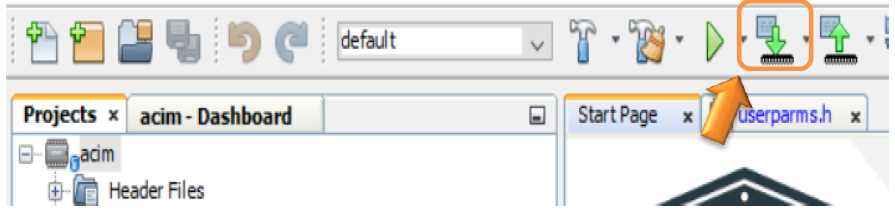
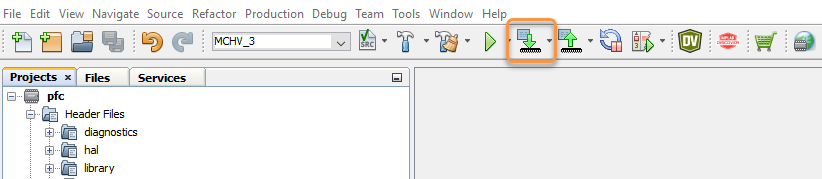
Readme file is updated. Images are updated for readme.

diff --git a/README.md b/README.md
@@ -1,25 +1,241 @@
 ![image](images/microchip.jpg) 
-
-## mchv3 dspic33ck64mc105 pfc
-
-Board Image if any.
-
-## Summary
+## Single Stage Boost Power Factor Correction Demonstration ReadMe for the dsPICDEM™ MCHV-2 Development Board or dsPICDEM™ MCHV-3 Development Board with the dsPIC33CK64MC105 External Op-Amp Motor Control PIM(MPLAB® X IDE)
 
 
-## Related Documentation
+## 1. INTRODUCTION
+This document describes the setup requirements for single stage boost power factor correction algorithm on the hardware platform dsPICDEM™ MCHV-2 Development Board or the dsPICDEM™ MCHV-3 Development Board in the External Op-Amp configuration with the dsPIC33CK64MC105 External Op-Amp Motor Control Plug-In Module (PIM).
+</br>
+
+## 2. SUGGESTED DEMONSTRATION REQUIREMENTS
+
+### 2.1 Motor Control Application Firmware Required for the Demonstration
+
+To clone or download this application firmware on GitHub, 
+- Navigate to the [main page of this repository](https://github.com/microchip-pic-avr-solutions/mchv3-dspic33ck64mc105-pfc) and 
+- On the tab **<> Code**, above the list of files in the right-hand corner, click Code, then from the menu, click **Download ZIP** or copy the repository URL to **clone.**
+> **Note:**</br>
+>In this document, hereinafter this firmware package is referred as **firmware.**
+### 2.2 Software Tools Used for Testing the firmware
+
+- MPLAB® X IDE **v6.00** 
+- DFP: **dsPIC33CK-MC_DFP v1.5.126**
+- MPLAB® XC16 Compiler **v2.00**
+- MPLAB® X IDE Plugin: **X2C-Scope v1.3.3** 
+> **Note:** </br>
+>The software used for testing the firmware prior to release is listed above. It is recommended to use the version listed above or later versions for building the firmware.
+### 2.3 Hardware Tools Required for the Demonstration
+To set up the demonstration, you may use one of the High-Voltage Motor Control Development Boards mentioned below:
+- dsPICDEM™ MCHV-2 Development Board,[DM330023-2](https://www.microchip.com/en-us/development-tool/dm330023-2)
+- dsPICDEM™ MCHV-3 Development Board,[DM330023-3](https://www.microchip.com/en-us/development-tool/dm330023-3)
+
+> **Note:** </br>
+> All items listed under the section Hardware Tools Required for the Demonstration are available at [microchip DIRECT](https://www.microchipdirect.com/)
+
+</br>
+
+## 3. HARDWARE SETUP
+This section describes hardware setup required for the demonstration.
+
+## Hadware Setup
+This section describes hardware setup required for the demonstration. 
+
+Refer dsPICDEM™ MCHV-2 Development Board User’s Guide or dsPICDEM™ MCHV-3 Development Board User’s Guide, for any clarification while setting up the hardware.
+
+1. Before making any connection, verify that the Development Board is not powered and it is fully discharged. This can be done by checking if Power on Status LED D13(Red) is off.
+
+2.  Open the top cover of the enclosure and set up the following jumpers (if they are not in specified positions):
+
+<p align="center">
+  <img src="images/jumpertable.PNG">
+</p>
+
+3.  Connect the wires from the DC load to terminals of connector, provided on the Development Board..</p>
+<p align="center">
+  <img src="images/motorconnection.PNG">
+</p>
+
+4.	Insert the ‘External Op Amp Configuration Matrix board’ into matrix board header J4. Ensure the matrix board is correctly oriented before proceeding.</p>
+<p align="center">
+  <img src="images/matrixboard.PNG">
+</p>
+
+> **Note:**</br>
+>Note: Rated current of the board in External op amp configuration is 16.5 A.
+</br>
+
+5. Insert the dsPIC33CK64MC105 External Op-Amp Motor Control PIM into the PIM Socket U11 provided on the Development Board. Make sure the PIM is correctly placed and oriented before proceeding.
 
 
-## Software Used 
+6. Close the top cover of the enclosure and secure it with screws.
+
+7. Power Cord Connection. Make sure the power cord is disconnected from the AC mains before connecting the female terminal of the power cable to the AC input connector J1 of the Development Board.
+<p align="center">
+  <img src="images/powercordconnection.PNG">
+</p>
+
+8. To program the device, a mini-USB connection is required between Host PC and the Development Board. Connect a mini-USB cable from your computer to the mini-USB connector “PROGRAM/DEBUG” of the Development Board. The development board features a Built-in isolated Programmer or Debugguer (Microchip Starter Kit).
+<p align="center">
+  <img src="images/miniusbconnector.PNG">
+</p>
+
+9. Power up the Development Board by connecting power cord to the mains. To verify the unit is powered, make sure LEDs D6, D13, D16 and D18 are ON.
+ 
+ </br>
+
+## 4. SOFTWARE SETUP AND RUN
+### 4.1 Setup: MPLAB X IDE and MPLAB XC16 Compiler
+Install **MPLAB X IDE** and **MPLAB XC16 Compiler** versions that support the device **dsPIC33CK64MC105** and **PKOBv4.** The MPLAB X IDE, MPLAB XC16 Compiler, and X2C-Scope plug-in used for testing the firmware are mentioned in the [Motor Control Application Firmware Required for the Demonstration](#21-motor-control-application-firmware-required-for-the-demonstration) section. 
+
+To get help on  
+
+- MPLAB X IDE installation, refer [link](https://microchipdeveloper.com/mplabx:installation)
+- MPLAB XC16 Compiler installation steps, refer [link](https://microchipdeveloper.com/xc16:installation)
+
+If MPLAB IDE v8 or earlier is already installed on your computer, then run the MPLAB driver switcher (Installed when MPLAB®X IDE is installed) to switch from MPLAB IDE v8 drivers to MPLAB X IDE drivers. If you have Windows 8 or 10, you must run the MPLAB driver switcher in **Administrator Mode**. To run the Device Driver Switcher GUI application as administrator, right-click on the executable (or desktop icon) and select **Run as Administrator**. For more details, refer to the MPLAB X IDE help topic **“Before You Begin: Install the USB Device Drivers (For Hardware Tools): USB Driver Installation for Windows Operating Systems.”**
+
+### 4.2 Setup: X2C-SCOPE
+X2C-Scope is an MPLAB X IDE plugin that allows developers to interact with an application while it runs. X2C-Scope enables you to read, write, and plot global variables (for motor control) in real-time. It communicates with the target using the UART. To use X2C-Scope, the plugin must be installed. To set up and use X2C-Scope, refer to the instructions provided on the [web page](https://x2cscope.github.io/docs/MPLABX_Plugin.html).
+
+## 5.  BASIC DEMONSTRATION
+### 5.1 Firmware Description
+The firmware version needed for the demonstration is mentioned in the section [Motor Control Application Firmware Required for the Demonstration](#21-motor-control-application-firmware-required-for-the-demonstration) section. This firmware is implemented to work on Microchip’s 16-bit Digital signal controller (dsPIC® DSC) **dsPIC33CK64MC105**. For more information, see the **dsPIC33CK64MC105 Family datasheet (DS70005399)**.
+
+> **Note:**</br>
+> The project may not build correctly in Windows OS if the Maximum path length of any source file in the project is more than 260 characters. In case the absolute path exceeds or nears the maximum length, do any (or both) of the following:
+> - Shorten the directory name containing the firmware used in this demonstration. If you renamed the directory, consider the new name while reading the instructions provided in the upcoming sections of the document.
+> - Place firmware in a location such that the total path length of each file included in the projects does not exceed the Maximum Path length specified. </br>
+> Refer to MPLAB X IDE help topic **“Path, File, and Folder Name Restrictions”** for details. 
+
+### 5.2 Basic Demonstration
+Follow the below instructions, step by step, to set up and run the pfc demo application:
+
+1. Start **MPLAB X IDE** and open the project **pfc.X (File > Open Project)** with device selection **dsPIC33CK64MC105.**  
+    <p align="left">
+       <img  src="images/idedeviceselection.png"></p>
+  
+
+2. Set the project **pfc.X** as the main project by right-clicking on the project name and selecting **Set as Main Project** as shown. The project **pfc.X** will then appear in **bold.**
+    <p align="left">
+     <img  src="images/ideprojectsetup.png"></p>
+ 
+
+	
+3. Open <code>**pfc_userparams.h** </code> (**pfc.X > Header Files**) in the project **pfc.X.**  
+     - Ensure that the macros <code>**ENABLE_PFC</code>, <code>PFC_POWER_CONTROL</code>** are defined in the header file<code> **pfc_userparams.h.**</code>
+          <p align="left"><img  src="images/configParam.png"></p>
+
+     - Ensure that the parameters values are set for dsPICDEM™ MCHV-3 Development Board.
+
+4. Right-click on the project **pfc.X** and select **Properties** to open its **Project Properties** Dialog. Click the **Conf:[default]** category to reveal the general project configuration information. The development tools used for testing the firmware are listed in section [2.2 Software Tools Used for Testing the firmware.](#22-software-tools-used-for-testing-the-firmware).
+
+     In the **Conf:[default]** category window: 
+     - Ensure the selected **Device** is **dsPIC33CK64MC105.**
+     - Select the **Connected Hardware Tool** to be used for programming and debugging. 
+     - Select the specific Device Family Pack (DFP) from the available list of **Packs.** In this case, **dsPIC33CK-MC_DFP 1.5.126** is selected. 
+     - Select the specific **Compiler Toolchain** from the available list of **XC16** compilers. 
+     In this case, **XC16(v2.00)** is selected.
+     - After selecting Hardware Tool and Compiler Toolchain, Device Pack, click the button **Apply**
+
+     Please ensure that the selected MPLAB® XC16 Compiler and Device Pack support the device configured in the firmware
+
+     <p align="left">
+     <img  src="images/projectpropertiessettings.png"></p>
+
+5. Ensure that the checkbox **Load symbols when programming or building for production (slows process)** is checked under the **Loading** category of the **Project Properties** window.       
+        
+      <p align="left">
+      <img  src="images/loadvariables.png"></p>
+
+6. To build the project (in this case, **pfc.X**) and program the device dsPIC33CK64MC105, click **Make and Program Device Main project** on the toolbar
+    <p align="left">
+    <img  src="images/deviceprogramming.png"></p>
+  
+7. If the device is successfully programmed, **LD2 (LED1)** will be turned **ON**, indicating that the dsPIC® DSC is enabled.
+    <p align="left">
+     <img  src="images/led.png"></p>
 
 
-## Hardware Used
+8. 
+
+## 5.3  Data visualization through X2C-Scope Plug-in of MPLAB X
+
+X2C-Scope is a third-party plug-in in MPLAB X, which helps in real-time diagnostics. The application firmware comes with the initialization needed to interface the controller with the host PC to enable data visualization through the X2C-Scope plug-in. Ensure the X2C-Scope plug-in is installed. For more information on how to set up a plug-in, refer to either the [Microchip Developer Help page](https://microchipdeveloper.com/mplabx:tools-plugins-available) or the [web page.](https://x2cscope.github.io/docs/MPLABX_Plugin.html)
+ 
+1. To establish serial communication with the host PC, connect a micro-USB cable between the host PC and **connector J16** on the MCLV-48V-300W Inverter Board. This interface is also used for programming.
 
 
-## Setup
+2. Ensure the application is configured and running as described under section [5.2 Basic Demonstration](#52-basic-demonstration) by following steps 1 through 11.
+
+3. Open the **X2C-Scope** window by selecting **Tools>Embedded>X2CScope.**
+      <p align="left">
+       <img  src="images/x2cselection.png"></p>
+ 
+
+4. **In the X2C-Scope Configuration** window, open the **Connection Setup** tab and click **Select Project.** This opens the drop-down menu **Select Project** with a list of opened projects. Select the specific project **pmsm** from the list of projects and click **OK.**
+    <p align="left">
+    <img  src="images/x2cprojectselection.png"></p>
+
+5. To configure and establish the serial communication for **X2C-Scope**, open the **X2CScope Configuration** window, click on the **Connection Setup** tab and:
+     - Set **Baudrate** as **115200**, which is configured in the application firmware. 
+     - Click on the **Refresh** button to refresh and update the list of the available Serial COM ports connected to the Host PC. 
+     - Select the specific **Serial port** detected when interfaced with the MCLV-48V-300W Inverter Board. The **Serial port** depends on the system settings
+
+    <p align="left">
+     <img  src="images/x2cconnectionsetup.png"></p>
+ 
+
+6. Once the **Serial port** is detected, click on **Disconnected** and turn to **Connected**, to establish serial communication between the Host PC and the board.
+     <p align="left">
+    <img  src="images/x2cconnectionbutton.png"></p>
 
 
-## Operation
+7. Open the **Project Setup** tab in the **X2CScope Configuration** window and,
+     - Set **Scope Sampletime** as the interval at which <code>X2CScopeUpdate()</code> is called. In this application, it is every <code>50µs.</code> 
+     - Then, click **Set Values** to save the configuration.
+
+      <p align="left">
+      <img  src="images/x2cprojectsetup.png"></p>
+
+
+8.	Click on **Open Scope View** (in the **Data Views** tab of the **X2CScope Configuration** Window); this opens **Scope Window.**
+     <p align="left">
+      <img  src="images/x2cdataview.png"></p>
+    	     
+9. In the **Scope Window**, select the variables that must be watched. To do this, click on the **Source** against each channel, and a window **Select Variables** opens on the screen. From the available list, the required variable can be chosen. Ensure checkboxes **Enable** and **Visible** are checked for the variables to be plotted.
+To view data plots continuously, uncheck **Single-shot.** When **Single-shot** is checked, it captures the data once and stops. The **Sample time factor** value multiplied by **Sample time** decides the time difference between any two consecutive data points on the plot.
+    <p align="left">
+    <img  src="images/x2cdatapointselection.png"></p>
+
+10.	Click on **SAMPLE**, then the X2C-Scope window plots variables in real-time, which updates automatically.
+     <p align="left">
+     <img  src="images/x2csample.png"></p>
+ 
+
+11.	Click on **ABORT** to stop.
+     <p align="left">
+     <img  src="images/x2cabort.png"></p>
+ 
+ ## 6. REFERENCES:
+For additional information, refer following documents or links.
+1. PFC Appnotes
+2. dsPIC33CK64MC105 Motor Control Dual In-Line Module (DIM) Information Sheet (DS50003344)
+3. dsPIC33CK64MC105 Family datasheet [(DS70005399)](https://ww1.microchip.com/downloads/en/DeviceDoc/dsPIC33CK64MC105-Family-Data-Sheet-DS70005399C.pdf)
+4. [Family Reference Manuals (FRM) of dsPIC33CK64MC105 family](https://www.microchip.com/en-us/product/dsPIC33CK64MC105#document-table)
+5. MPLAB® X IDE User’s Guide (DS50002027) or MPLAB® X IDE help
+6. [MPLAB® X IDE installation](http://microchipdeveloper.com/mplabx:installation)
+7. [MPLAB® XC16 Compiler installation](http://microchipdeveloper.com/xc16:installation)
+8. [Installation and setup of X2Cscope plugin for MPLAB X](https://x2cscope.github.io/docs/MPLABX_Plugin.html)
+
+
+
+
+
+
+
+
+
+
+
 
 
 
